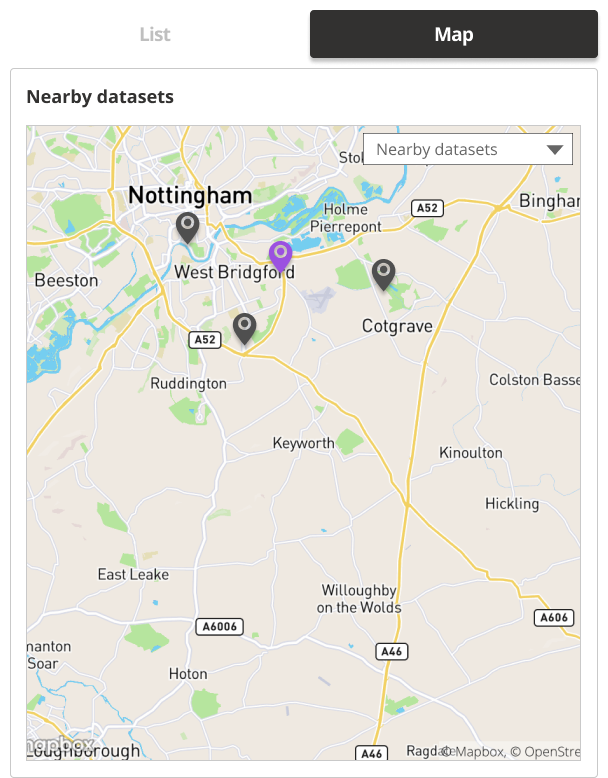
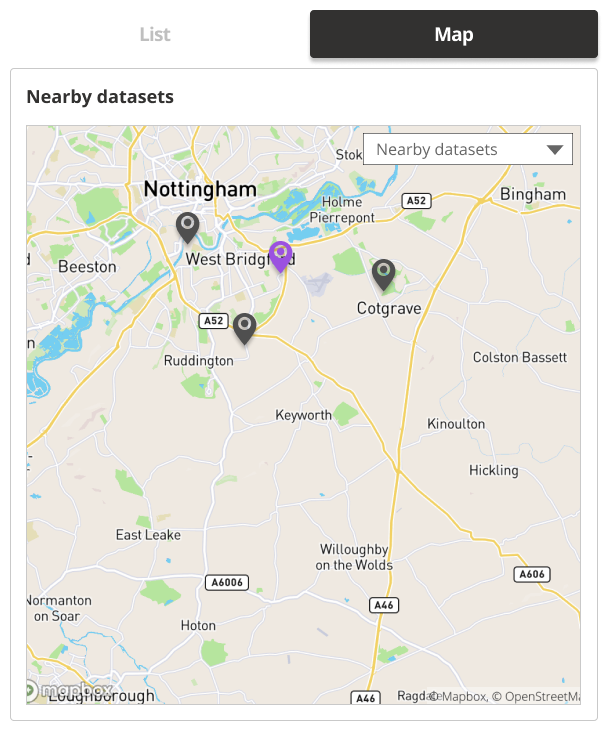
updates to help navigate

diff --git a/docs/main-content/steps/navigate-the-portal.md b/docs/main-content/steps/navigate-the-portal.md
@@ -61,9 +61,11 @@ If there is a risks for the *related datasets* lists becoming unwieldy, they sho
 
 <div class="image-container">
 
-![related datasets](../../_media/help-navigate/related-datasets.png)
+List view             |  Map view
+:-------------------------:|:-------------------------:
+![Additional info](../../_media/assess-dataset-relevance/similar-datasets.png) | ![Additional info](../../_media/assess-dataset-relevance/nearby-datasets.png)
 
-*Easy way to explore related content*
+*Related datasets in list and map view*
 
 </div>
 

diff --git a/docs/main-content/steps/assess-dataset-relevance.md b/docs/main-content/steps/assess-dataset-relevance.md
@@ -101,7 +101,6 @@ A few possible ways to group and identify related datasets include:
 
 <div class="image-container">
 
-
 List view             |  Map view
 :-------------------------:|:-------------------------:
 ![Additional info](../../_media/assess-dataset-relevance/similar-datasets.png) | ![Additional info](../../_media/assess-dataset-relevance/nearby-datasets.png)
